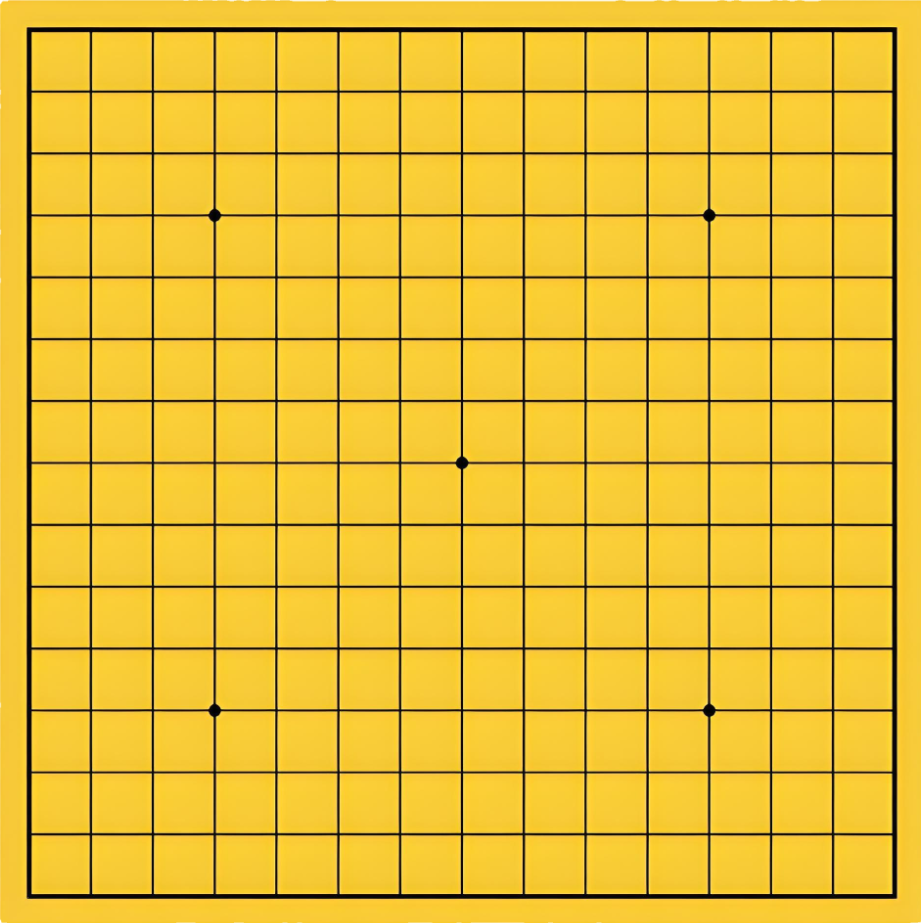
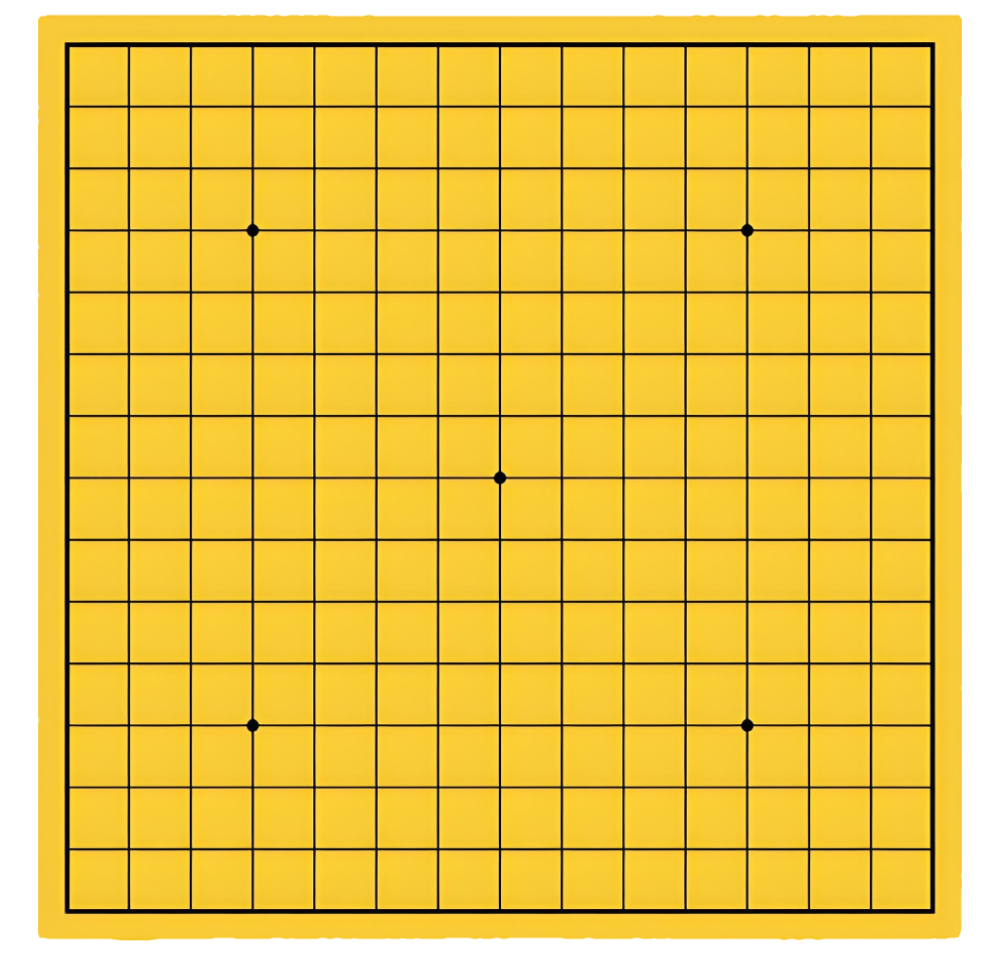
Restored to '33546a2452204b467581b7272092c0235a7bc247'
Coze-Restored-To: '33546a2452204b467581b7272092c0235a7bc247'
Coze-Commit-Type: restore

diff --git a/gomoku-game/src/app/globals.css b/gomoku-game/src/app/globals.css
@@ -886,7 +886,7 @@ body {
   --piece-size: 26px;
   --zone-size: 34px;
   --board-padding: 8%;  /* 图片边缘留白，约80px */
-  --grid-gap: 61.5%;        /* 网格间距，约60px */
+  --grid-gap: 6%;        /* 网格间距，约60px */
 
   position: relative;
   width: 100%;
